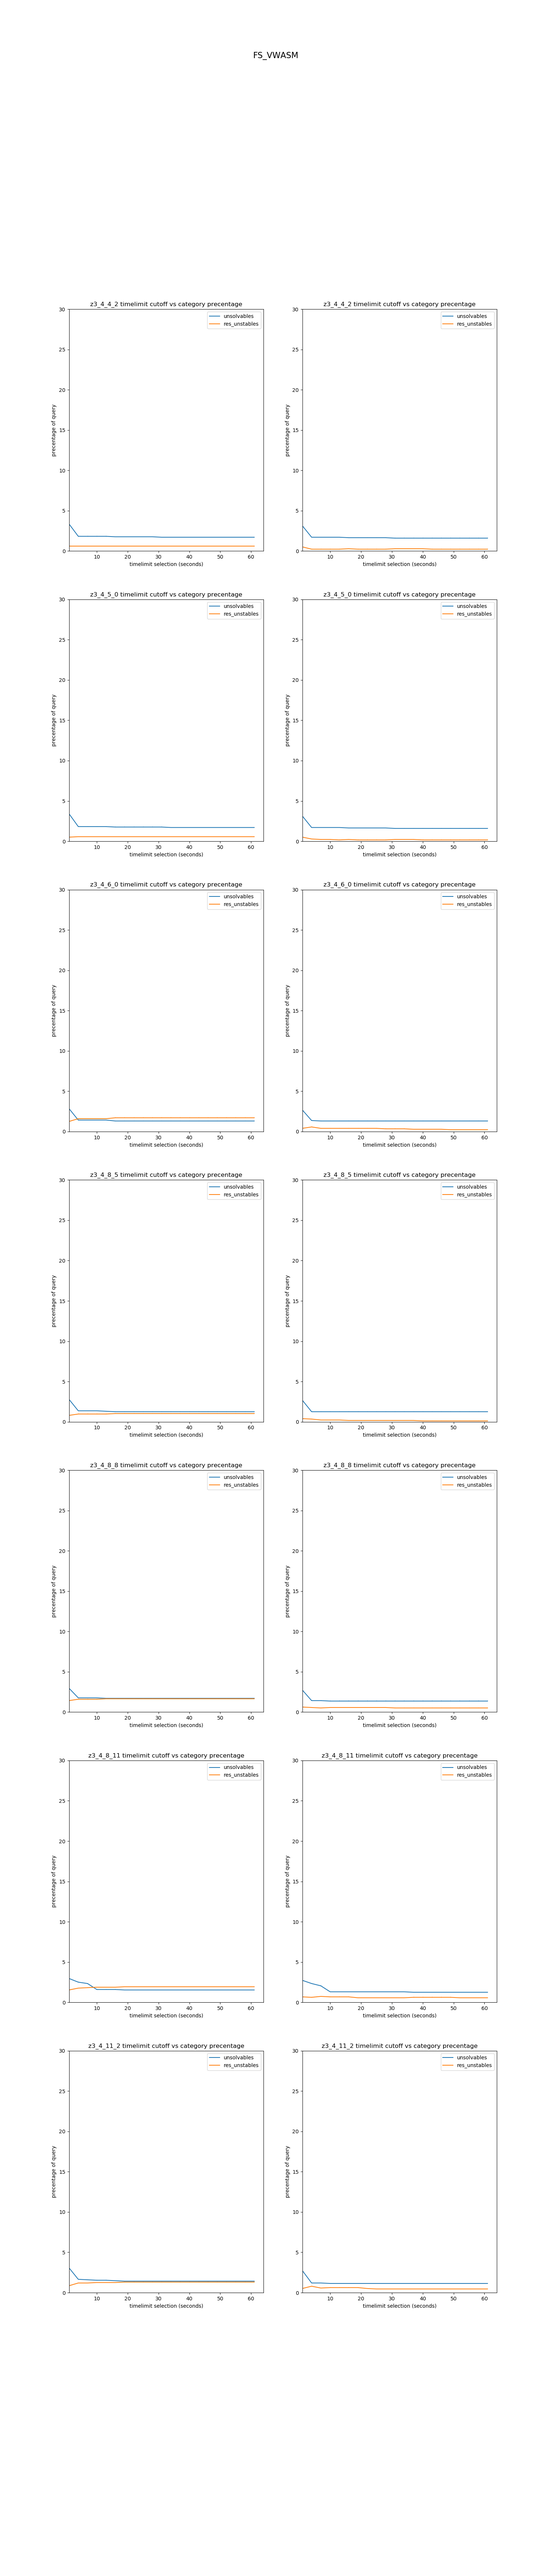
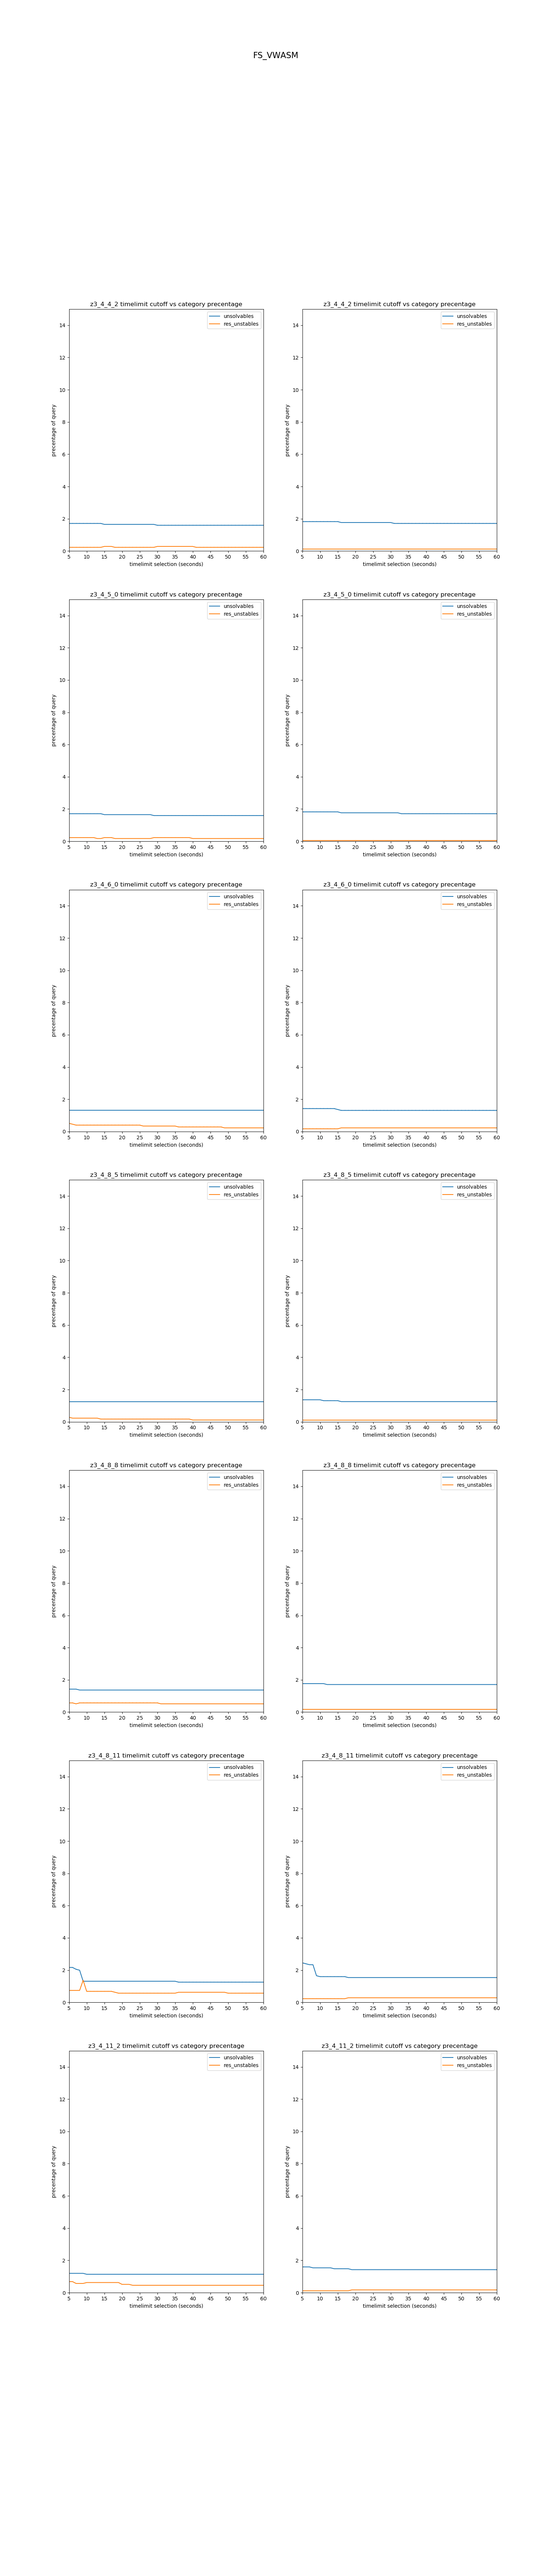
basic version of pert diff

diff --git a/scripts/analyzer.py b/scripts/analyzer.py
@@ -174,14 +174,24 @@ class Stablity(str, Enum):
     TIME_UNSTABLE = "time_unstable"
     STABLE = "stable"
 
+    def __str__(self) -> str:
+        return super().__str__()
+
     def empty_map():
         em = {c: set() for c in Stablity}
         return em
 
+# miliseconds
+def successes_within_timeout(blob, timeout=1e6):
+    success = blob[0] == RCode.UNSAT.value
+    none_timeout = blob[1] < timeout 
+    success = np.sum(np.logical_and(success, none_timeout))
+    return success
+
 class Thresholds:
     def __init__(self, method):
         self.confidence = 0.05
-        self.timeout = 1000
+        self.timeout = 1e6
 
         self.unsolvable = 5
         assert 0 < self.unsolvable < 100
@@ -189,35 +199,36 @@ class Thresholds:
         self.res_stable = 95
         assert 0 < self.res_stable < 100
 
-        self.time_std = 1000
+        self.time_std = 1e6
 
-        if method == "plain":
-            self.categorize_group = self._categorize_group_plain
+        if method == "regression":
+            self.categorize_group = self._categorize_group_regression
         elif method == "strict":
-            self.categorize_group = self._categorize_group_strict
-        elif method == "threshold":
-            self.categorize_group = self._categorize_group_threshold
+            self.categorize_group = self._categorize_group_divergence_strict
+        # elif method == "threshold":
+        #     self.categorize_group = self._categorize_group_threshold
         else:
             assert False
 
-    def _categorize_group_plain(self, group_blob):
+    def _categorize_group_regression(self, group_blob):
         pres = group_blob[0][0]
-        ptime = as_seconds(group_blob[1][0])
+        ptime = group_blob[1][0]
         if pres != RCode.UNSAT.value or ptime > self.timeout:
             return Stablity.UNSOLVABLE
 
-        success = np.sum(group_blob[0] == RCode.UNSAT.value)
+        timeout = max(ptime * 1.5, ptime + 50000)
+        success = successes_within_timeout(group_blob, timeout)
+        # if success < len(group_blob[0]) * 0.8:
+        #     return Stablity.RES_UNSTABLE
+
         size = len(group_blob[0])
         if success != size:
             return Stablity.RES_UNSTABLE
-
         return Stablity.STABLE
 
-    def _categorize_group_strict(self, group_blob):
+    def _categorize_group_divergence_strict(self, group_blob):
         size = len(group_blob[0])
-        success = group_blob[0] == RCode.UNSAT.value
-        none_timeout = group_blob[1] < self.timeout * 1000 
-        success = np.sum(np.logical_and(success, none_timeout))
+        success = successes_within_timeout(group_blob, self.timeout)
 
         if success == 0:
             return Stablity.UNSOLVABLE
@@ -286,88 +297,128 @@ def get_category_precentages(categories):
         percentages[c] = percentage(len(i), total)
     return percentages
 
+def subplot_cutoff(sp, xs, ys0, ys1, solver):
+    sp.plot(xs, ys0, marker=",", label="unsolvables")
+    sp.plot(xs, ys1, marker=",", label="res_unstables")
+    sp.set_title(f'{solver} timelimit cutoff vs category precentage')
+    sp.set_xlabel("timelimit selection (seconds)")
+    sp.set_ylabel("precentage of query")
+    sp.set_xticks(xs[::5])
+    sp.set_xlim(left=5, right=60)
+    sp.set_ylim(bottom=0, top=15)
+    sp.legend()
+
 def plot_cutoff(cfg):
     s = load_summary_table(cfg)
     solver_count = len(s.keys())
     cut_figure, cut_aixs = setup_fig(solver_count, 2)
-    xs = [i for i in range(1, 63, 3)]
+    xs = [i for i in range(5, 61, 1)]
 
-    for j, (solver, rows) in enumerate(s.items()):
+    for j, (solver, rows) in tqdm(enumerate(s.items())):
         strict_th = Thresholds("strict")
-        palin_th = Thresholds("plain")
+        palin_th = Thresholds("regression")
         stricts = [[], []]
         plains = [[], []]
 
         for i in xs:
-            strict_th.timeout = i
+            strict_th.timeout = i * 1000
             categories = categorize_qeuries(rows, strict_th)
             ps = get_category_precentages(categories)
             stricts[0].append(ps[Stablity.UNSOLVABLE])
             stricts[1].append(ps[Stablity.RES_UNSTABLE])
-            palin_th.timeout = i
+            palin_th.timeout = i * 1000
             categories = categorize_qeuries(rows, palin_th)
             ps = get_category_precentages(categories)
             plains[0].append(ps[Stablity.UNSOLVABLE])
             plains[1].append(ps[Stablity.RES_UNSTABLE])
 
         sps = cut_aixs
-
         if solver_count != 1:
             sps = cut_aixs[j]
-        sp = sps[0]
-
-        sp.plot(xs, stricts[0], marker=",", label="unsolvables")
-        sp.plot(xs, stricts[1], marker=",", label="res_unstables")
-        sp.set_title(f'{solver} timelimit cutoff vs category precentage')
-        sp.set_ylabel("precentage of query")
-        sp.set_xlabel("timelimit selection (seconds)")
-        sp.set_xlim(left=1, right=60)
-        sp.set_ylim(bottom=0, top=30)
-        sp.legend()
-
-        sp = sps[1]
-
-        sp.plot(xs, plains[0], marker=",", label="unsolvables")
-        sp.plot(xs, plains[1], marker=",", label="res_unstables")
-        sp.legend()
-        sp.set_title(f'{solver} timelimit cutoff vs category precentage')
-        sp.set_ylabel("precentage of query")
-        sp.set_xlabel("timelimit selection (seconds)")
-        sp.set_xlim(left=1, right=60)
-        sp.set_ylim(bottom=0, top=30)
+        subplot_cutoff(sps[0], xs, stricts[0], stricts[1], solver)
+        subplot_cutoff(sps[1], xs, plains[0], plains[1], solver)
 
     name = cfg.qcfg.name
     save_fig(cut_figure, f"{name}", f"fig/time_cutoff/{name}.png")
 
-# def do_stuff(cfg):
-#     s = load_summary_table(cfg)
-#     for j, (solver, rows) in enumerate(s.items()):
-#         th = Thresholds("strict")
-#         unsolvables = []
-#         unstables = []
-#         xs = [i for i in range(1, 63, 3)]
-#         xs.reverse()
-#         cc = []
+def categorty_prediction(cfg):
+    summaries = load_summary_table(cfg)
+    sample_size = 30
+    for solver in summaries:
+        true_unsol, est_unsol = 0, 0
+        true_stable, est_stable = 0, 0
+        for query_row in summaries[solver]:
+            group_blobs = query_row[3]
+            for i in range(group_blobs.shape[0]):
+                sample = group_blobs[i][:,:sample_size]
+                sample_success = successes_within_timeout(sample)
+                true_success = successes_within_timeout(group_blobs[i])
+                if sample_success == 0:
+                    est_unsol += 1
+                    if true_success == 0:
+                        true_unsol += 1
+                if sample_success == sample_size:
+                    est_stable += 1
+                    if true_success == group_blobs.shape[2]:
+                        true_stable += 1
+        print(solver, 
+              round(percentage(true_unsol, est_unsol), 2),
+              round(percentage(true_stable, est_stable), 2))
 
-#         for i in xs:
-#             th.timeout = i
-#             remap_timeouts(rows, th)
-#             count = 0
-#             cc = 0
-#             for query_row in rows:
-#                 pres, ptime = query_row[2], query_row[3]
-#                 ress = set()
-#                 for (_, vress, times) in query_row[4]:
-#                     ress.add(th.categorize_group(pres, ptime, vress, times))
-#                 if len(ress) != 1:
-#                     # print(ress)
-#                     count += 1
-#                 elif Stablity.RES_UNSTABLE in ress:
-#                     cc += 1
-#             print(i, count, cc)
+def compare_perturbations(cfg, solver=None):
+    summaries = load_summary_table(cfg)
+    th = Thresholds("strict")
 
-#                 # categorize_group
-#         # print(len(rows))
+    # votes = {c: 0 for c in Stablity}
+    if solver is not None:
+        summaries = {solver: summaries[solver]}
+
+    solver_count = len(summaries.keys())
+    figure, aixs = setup_fig(solver_count, 2)
+
+    for j, solver in enumerate(summaries):
+        decisions = dict()
+        perturbations = summaries[solver][0][2]
+        categories = [c for c in Stablity]
+        for p in perturbations:
+           decisions[p] = {c: 0 for c in Stablity}
+        for query_row in summaries[solver]:
+            group_blobs = query_row[3]
+            for i in range(group_blobs.shape[0]):
+                p = perturbations[i]
+                c = th.categorize_group(group_blobs[i])
+                decisions[p][c] += 1
+        sps = aixs
+        if solver_count != 1:
+            sps = aixs[j]
+        data = []
+        for i, (_, decision) in enumerate(decisions.items()):
+            pts = []
+            for c in categories:
+                pts.append(decision[c])
+            data.append(pts)
+
+        data = np.array(data)
+
+        for i, row in enumerate(data):
+            sps[0].scatter(categories, row, color=COLORS[i], marker="o", label=str(perturbations[i]))
+        sps[0].legend()
+
+        new_data = np.zeros(data.T.shape)
+        for i, col in enumerate(data.T):
+            new_col = np.zeros(col.shape)
+            if np.max(col) != 0:
+                new_col = np.array(col) / np.max(col)
+            new_data[i] = new_col
+        for i, row in enumerate(new_data.T):
+            sps[1].scatter(categories, row, color=COLORS[i], marker="o", label=str(perturbations[i]))
+        sps[1].legend()
+
+    name = cfg.qcfg.name
+    plt.savefig(f"fig/pert_diff/{name}.png")
+
+# def do_stuff():
+#     pass
 
 # def plot_basic(cfg, solver_summaries):
 #     solver_count = len(cfg.samples)
@@ -515,18 +566,18 @@ def plot_cutoff(cfg):
 #         rows = res.fetchall()
 
 #         unsolvable = {p: set() for p in cfg.qcfg.enabled_muts}
-#         unsolvable["plain"] = set()
+#         unsolvable["regression"] = set()
 
 #         for row in rows:
 #             if row[2] != "unsat":
-#                 unsolvable["plain"].add(row[1])
+#                 unsolvable["regression"].add(row[1])
 
 #             summaries = ast.literal_eval(row[4])
 #             for (perturb, vres, _) in summaries:
 #                 if len(vres) != 0 and vres.count("unsat") ==0:
 #                     unsolvable[perturb].add(row[1])
 
-#         muts = ["plain", "shuffle", "rename", "sseed"]
+#         muts = ["regression", "shuffle", "rename", "sseed"]
 #         table = [[solver] + [m + "(" + str(len(unsolvable[m])) + ")" for m in muts]]
 
 #         for p1 in muts:
@@ -566,7 +617,7 @@ def plot_cutoff(cfg):
 # #     os.system("""ls data/d_komodo_z3_clean/ | grep "va__" | wc -l""")
 # #     summaries = load_summary_table(cfg)
 
-# #     thres = Thresholds("plain")
+# #     thres = Thresholds("regression")
 # #     # thres.timeout = 60
 # #     unsolvables0 = categorize_qeuries(summaries['z3_4_8_5'], thres)[0]
 # #     unsolvables8 = categorize_qeuries(summaries['z3_4_8_8'], thres)[0]

diff --git a/scripts/main.py b/scripts/main.py
@@ -48,17 +48,15 @@ for cfg in ALL_UNSOL_CFGs:
     cfg.qcfg.timeout = 120
 
 def analyze_results():
-    from analyzer import load_summary_table, plot_cutoff, dump_all
+    from analyzer import load_summary_table, plot_cutoff, dump_all, build_summary_table, compare_perturbations
     # analyze_d_komodo_sus(D_KOMODO_CFG)
 
-    cfgs = [S_KOMODO_CFG, D_KOMODO_CFG, D_LVBKV_CFG, FS_VWASM_CFG]
-    # cfgs = [D_KOMODO_CFG]
-    dump_all(cfgs)
+    # cfgs = [S_KOMODO_CFG, D_KOMODO_CFG, D_LVBKV_CFG, FS_VWASM_CFG]
+    # D_KOMODO_CFG = ExpConfig("D_KOMODO", D_KOMODO, [Z3_4_11_2], DB_PATH)
     # plot_cutoff(D_KOMODO_CFG)
-    # cfg = ExpConfig("D_KOMODO", D_KOMODO, [Z3_4_4_2], DB_PATH)
-    # cfg = ExpConfig("D_LVBKV", D_LVBKV, [Z3_4_4_2], DB_PATH)
-    # load_summary_table(D_KOMODO_CFG)
-
+    compare_perturbations(D_LVBKV_CFG)
+    # do_stuff(D_LVBKV_CFG)
+    # dump_all(cfgs)
     # total = 0
     # for cfg in ALL_UNSOL_CFGs:
     #     print(cfg.qcfg.name)
@@ -135,8 +133,8 @@ if __name__ == '__main__':
 
     from analyzer import build_summary_table, append_summary_table
     # build_summary_table(D_LVBKV_CFG)
-    # import_database("s1907")
-    # append_summary_table(D_LVBKV_CFG, Z3_4_8_5)
+    # import_database("s1902")
+    # append_summary_table(D_KOMODO_CFG, Z3_4_8_11)
 
     # cfg = ExpConfig("D_LVBKV", D_LVBKV, [Z3_4_4_2, Z3_4_5_0, Z3_4_6_0, Z3_4_8_5, Z3_4_8_8])
     # r = Runner([cfg], override=True)
